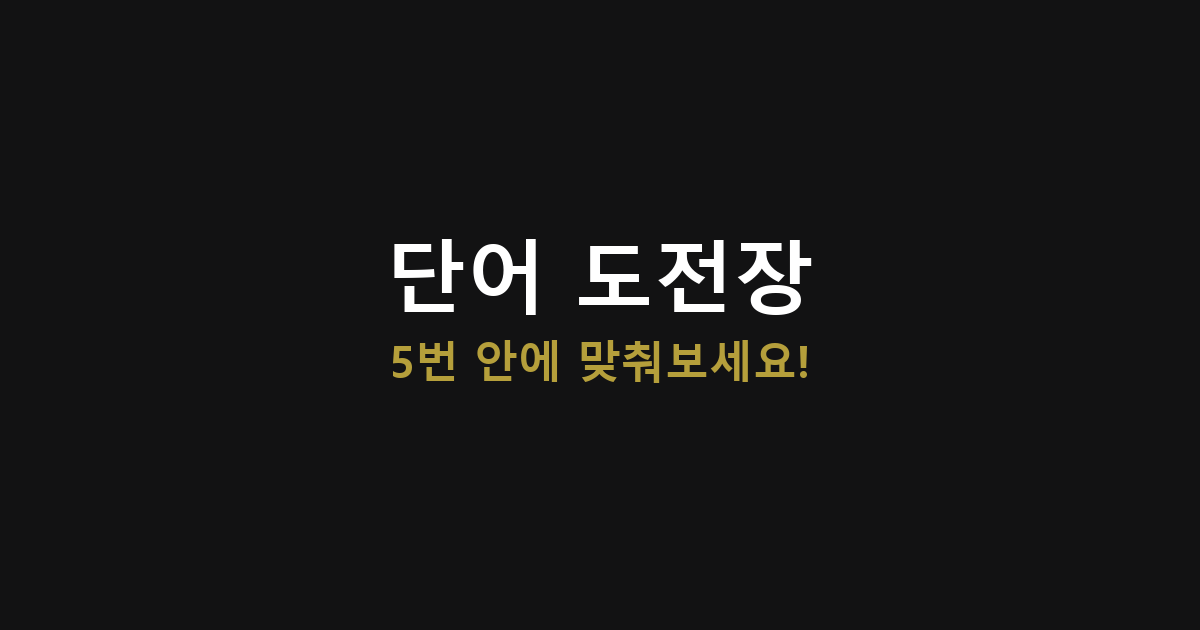
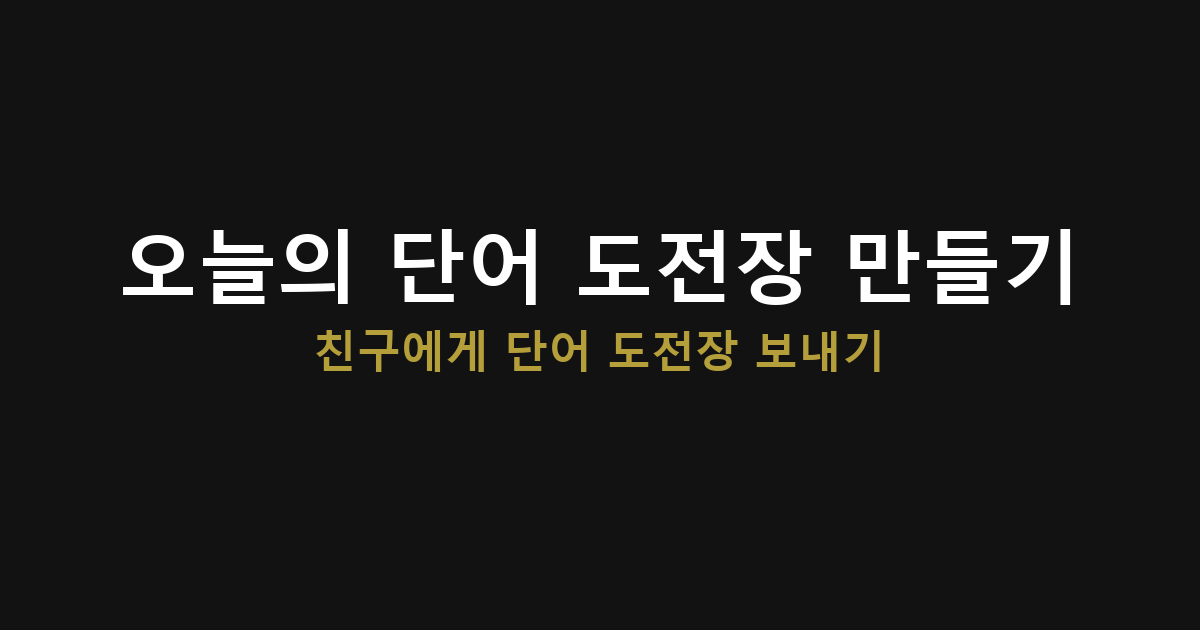
OG 이미지 파일 정리 및 share 썸네일 추가
- og-image-share.png → og-image-play.png (play.html용)
- og-image-share.png: 새로 생성 (share.html 도전장 만들기)
- play.html: og-image-play.png 참조
- share.html: og-image-share.png 참조

Changed region(s): [[0.0925, 0.3619, 0.74, 0.6032], [0.7092, 0.3619, 0.8942, 0.4825]]

diff --git a/play.html b/play.html
@@ -6,7 +6,7 @@
     <title>단어 도전장</title>
     <meta property="og:title" content="단어 도전장" />
     <meta property="og:description" content="친구가 보낸 단어 도전장! 5번 안에 맞춰보세요" />
-    <meta property="og:image" content="https://hwjangg.github.io/KoreanWordGame/og-image-share.png" />
+    <meta property="og:image" content="https://hwjangg.github.io/KoreanWordGame/og-image-play.png" />
     <meta property="og:type" content="website" />
     <link rel="stylesheet" href="style.css">
 </head>

diff --git a/share.html b/share.html
@@ -6,7 +6,7 @@
     <title>단어 도전장 만들기</title>
     <meta property="og:title" content="단어 도전장 만들기" />
     <meta property="og:description" content="친구에게 단어 도전장 보내기" />
-    <meta property="og:image" content="https://hwjangg.github.io/KoreanWordGame/og-image.png" />
+    <meta property="og:image" content="https://hwjangg.github.io/KoreanWordGame/og-image-share.png" />
     <meta property="og:type" content="website" />
     <link rel="stylesheet" href="style.css">
     <style>